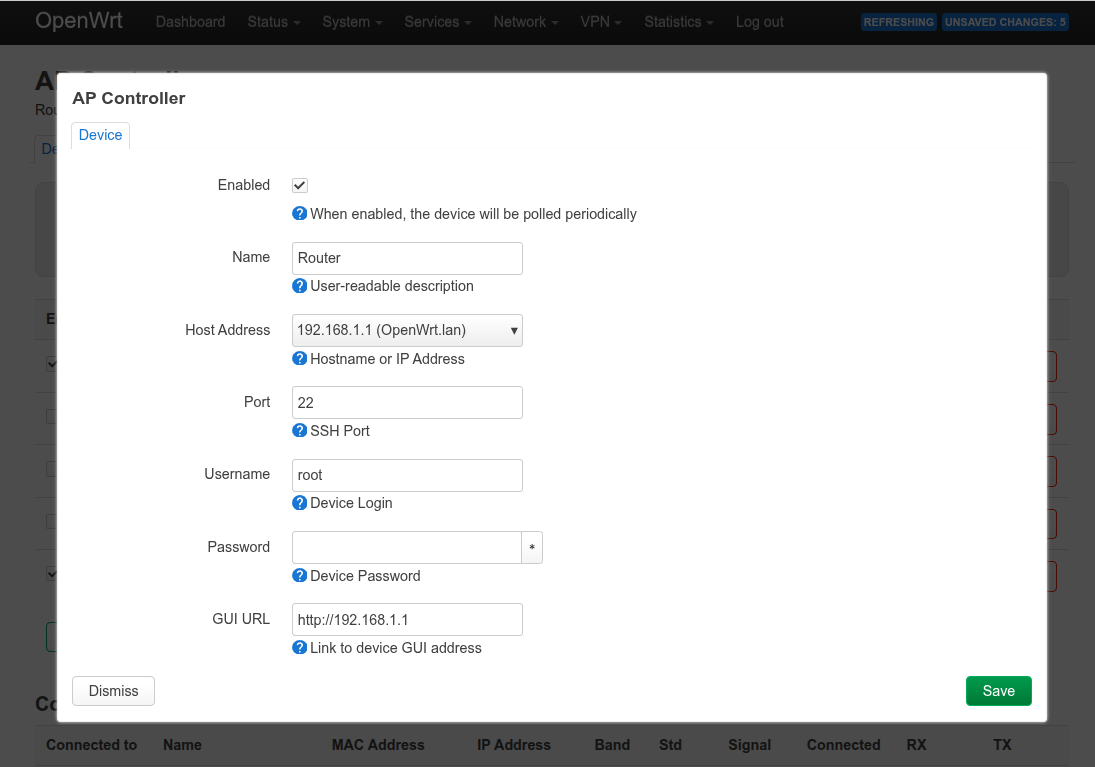
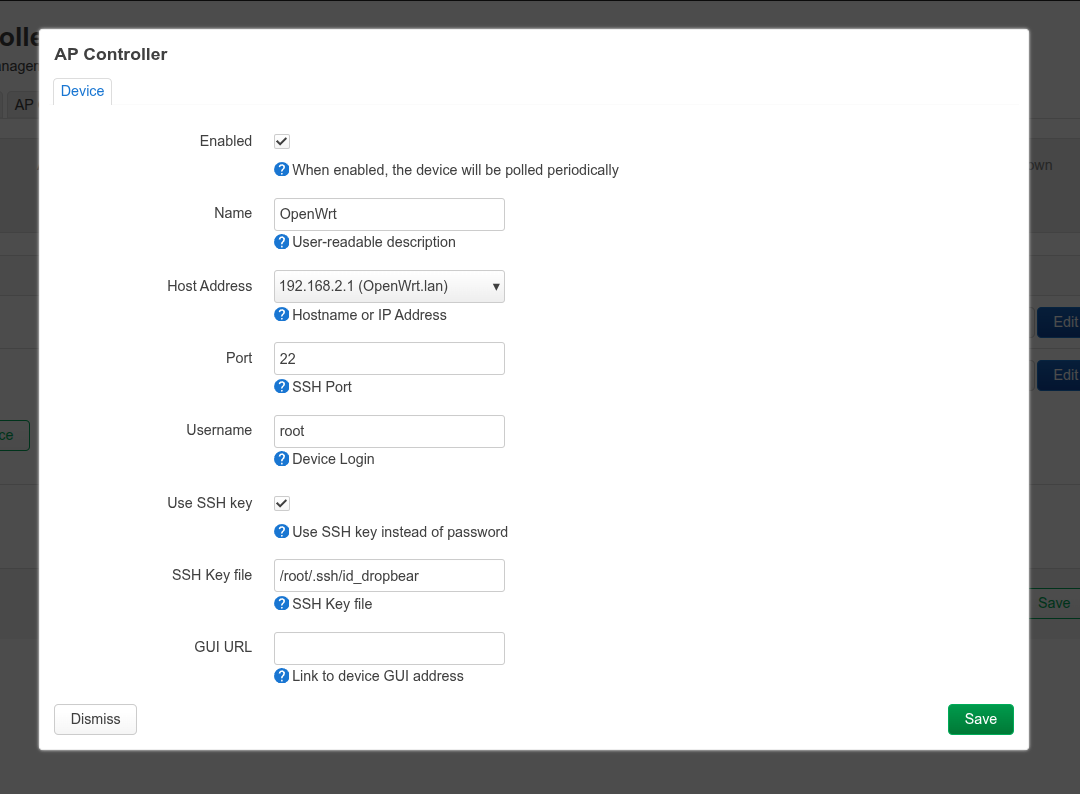
Added the ability to select SSH key file

diff --git a/luci-app-apcontroller/htdocs/luci-static/resources/view/apcontroller/apcontroller.js b/luci-app-apcontroller/htdocs/luci-static/resources/view/apcontroller/apcontroller.js
@@ -739,27 +739,57 @@ return view.extend({
 										if (!confirm(_('Are you sure you want to execute the "%s" script?').format(description)))
 											return;
 									}
-									return fs.exec('sshpass', [
-										'-p', typeof row['password'] !== 'undefined' ? row['password']: '""',
-										'scp',
-										'-o', 'StrictHostKeyChecking=no',
-										'-P', row['port'],
-										'/usr/share/apcontroller/scripts/' + script,
-										row['username'] + '@' + row['ipaddr'] + ':/tmp'
-									]).then(function(res) {
-										return fs.exec('sshpass', [
-											'-p', typeof row['password'] !== 'undefined' ? row['password']: '""',
-											'ssh',
-											'-q',
-											'-o', 'StrictHostKeyChecking=no',
-											'-p', row['port'],
-											row['username'] + '@' + row['ipaddr'],
-											'sh',
-											'/tmp/' + script
-										]).then(function(res) {
+									let cmd = '';
+									let args = [];
+									if (row['usekeyfile'] && row['keyfile']) {
+											cmd = 'scp';
+											args = [
+												'-i', row['keyfile'],
+												'-o', 'StrictHostKeyChecking=no',
+												'-P', row['port'],
+												'/usr/share/apcontroller/scripts/' + script,
+												row['username'] + '@' + row['ipaddr'] + ':/tmp'
+											];
+									} else {
+											cmd = 'sshpass';
+											args = [
+												'-p', typeof row['password'] !== 'undefined' ? row['password']: '""',
+												'scp',
+												'-o', 'StrictHostKeyChecking=no',
+												'-P', row['port'],
+												'/usr/share/apcontroller/scripts/' + script,
+												row['username'] + '@' + row['ipaddr'] + ':/tmp'
+											];
+									}
+									return fs.exec(cmd, args).then(function(res) {
+										if (row['usekeyfile'] && row['keyfile']) {
+											cmd = 'ssh';
+											args = [
+												'-q',
+												'-i', row['keyfile'],
+												'-o', 'StrictHostKeyChecking=no',
+												'-p', row['port'],
+												row['username'] + '@' + row['ipaddr'],
+												'sh',
+												'/tmp/' + script
+											];
+										} else {
+											cmd = 'sshpass';
+											args = [
+												'-p', typeof row['password'] !== 'undefined' ? row['password']: '""',
+												'ssh',
+												'-q',
+												'-o', 'StrictHostKeyChecking=no',
+												'-p', row['port'],
+												row['username'] + '@' + row['ipaddr'],
+												'sh',
+												'/tmp/' + script
+											];
+										}
+										return fs.exec(cmd, args).then(function(res) {
 											if (res.stdout) document.querySelector('#actionexecstdout').value = res.stdout;
 											if (res.stderr) {
-												res.stderr = res.stderr.replace(/ssh: Caution, skipping hostkey check for [\d\.]+\n\n/, "");
+												res.stderr = res.stderr.replace(/^.*Caution, skipping hostkey check for [\d\.]+\n\n/, "");
 												if (res.stderr) document.querySelector('#actionexecstderr').value = res.stderr;
 											}
 										}).catch(function(err) {
@@ -852,9 +882,21 @@ return view.extend({
 		o.rmempty = false;
 		o.default = 'root';
 
+		o = s.taboption('host', form.Flag, 'usekeyfile', _('Use SSH key'), _('Use SSH key instead of password'));
+		o.modalonly = true;
+		o.rmempty = false;
+		o.default = 0;
+
+		o = s.taboption('host', form.Value, 'keyfile', _('SSH Key file'), _('SSH Key file'));
+		o.modalonly = true;
+		o.rmempty = false;
+		o.default = '/root/.ssh/id_dropbear';
+		o.depends('usekeyfile', '1');
+
 		o = s.taboption('host', form.Value, 'password', _('Password'), _('Device Password'));
 		o.modalonly = true;
 		o.password = true;
+		o.depends('usekeyfile', '0');
 
 		Object.entries(devicesmorecolumns).forEach(([key, value]) => {
 			if (selectedcolumns.includes(key) || key == 'status') {
